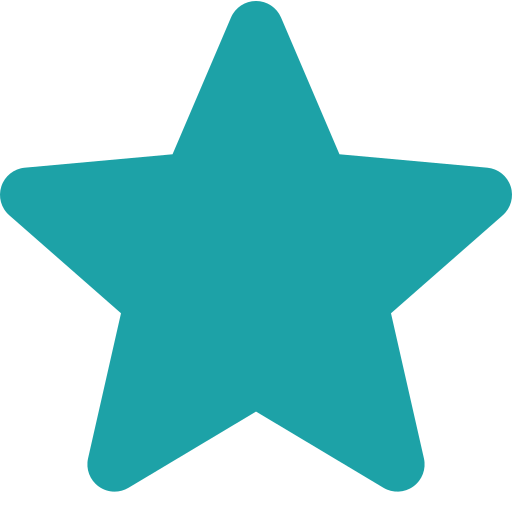
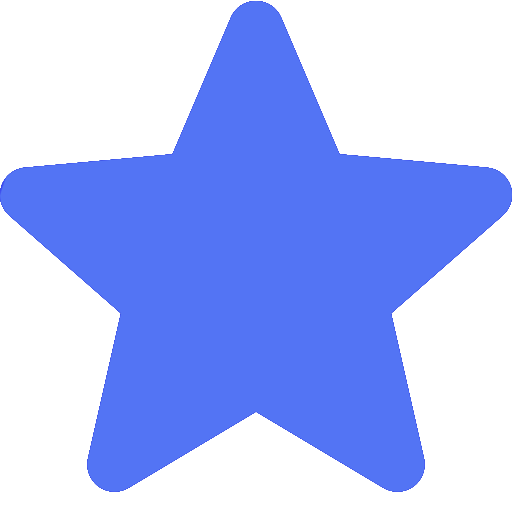
couleurs avis + new couleurs étoiles

diff --git a/css/mes-avis.css b/css/mes-avis.css
@@ -26,13 +26,15 @@
     border-radius: 5px;
     border: solid;
     border-width: 2px;
-    border-color: rgb(0, 0, 0, .3);
+    border-color: rgb(0, 34, 146, .6);
     margin: 25px 0 25px 0;
     padding: 10px;
+    box-shadow: 0px 0px 3px 0px rgba(0,0,0,0.75);
 }
 
 h3{
     font-family: 'TripSansBold';
+    color: var(--bleu-rouge);
 }
 
 p{
@@ -69,27 +71,31 @@ h1{
     font-family: 'TripSansRegular';
     height: 100%;
     width: 100%;
+    box-shadow: 0px 0px 2px 0px rgba(0,0,0,0.75);
 }
 
 #bouton-supp:hover{
     background-color: red;
+    transition: background-color 0.3s linear;
     color: white;
 }
 
 
 .boutons > a{
     text-decoration: none;
-    color: black;
+    color: var(--bleuFonce-rougeFonce);
     background-color: white;
-    border: 1px solid black;
+    border: 1px solid rgb(0, 34, 146, .6);
     padding: 5px;
     border-radius: 5px;
     font-family: 'TripSansRegular';
     margin-left: 10px;
+    box-shadow: 0px 0px 2px 0px rgba(0,0,0,0.75);
 }
 
 .boutons > a:hover{
-    background-color: black;
+    background-color: rgb(83, 116, 244);
+    transition: background-color 0.3s linear;
     color: white;
 }
 
